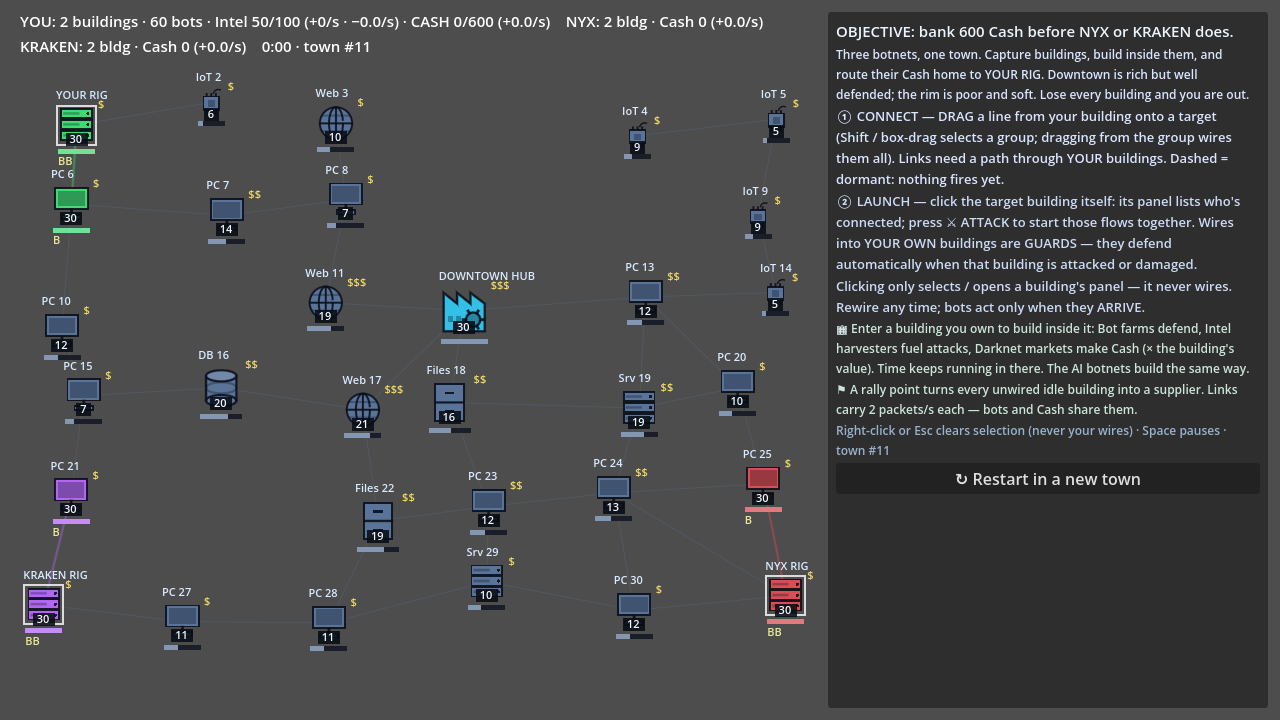
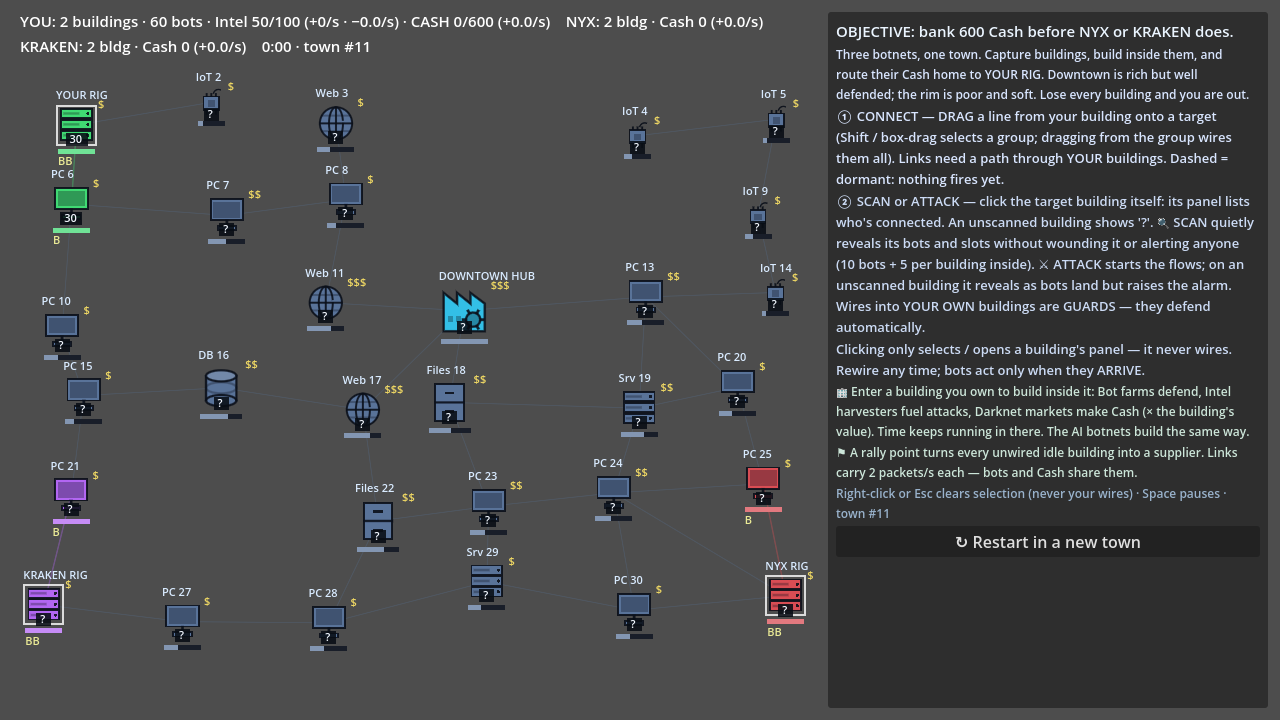
Re-render the gallery with scanning and thinner lines (36 shots)
Adds the quiet scan in progress and the revealed launch pad to the
scripted gallery and rebuilds the contact sheet.

Claude-Session: https://claude.ai/code/session_01Ti5DGJBpi5o1ddyD79UZee

diff --git a/review/botnet_v2_2026-10-11/README.md b/review/botnet_v2_2026-10-11/README.md
@@ -9,7 +9,7 @@ themselves) and the cost-aware AI botnets.
   pacing readings. Calls the real simulation functions; not a usability test, not a balance verdict.
 - `results.json` — the run recorded here.
 - `shot.gd` + `captures/` — early rendered checks of the four panel states.
-- `gallery.gd` + `gallery/` — the real scene rendered under Xvfb through 33 scripted states: towns from four
+- `gallery.gd` + `gallery/` — the real scene rendered under Xvfb through 36 scripted states: towns from four
   seeds, selection, dormant wires and the launch pad, a quiet scan and the revealed launch pad, a launched two-stream attack with a busy link, the
   inspect diagnostics, a capture, the rally point, the rate dial, a guard arming when its building is
   damaged, Cash packets, the inside view with its slot board (build, replace in progress), an attack by NYX, a scripted match at one-minute intervals on two
